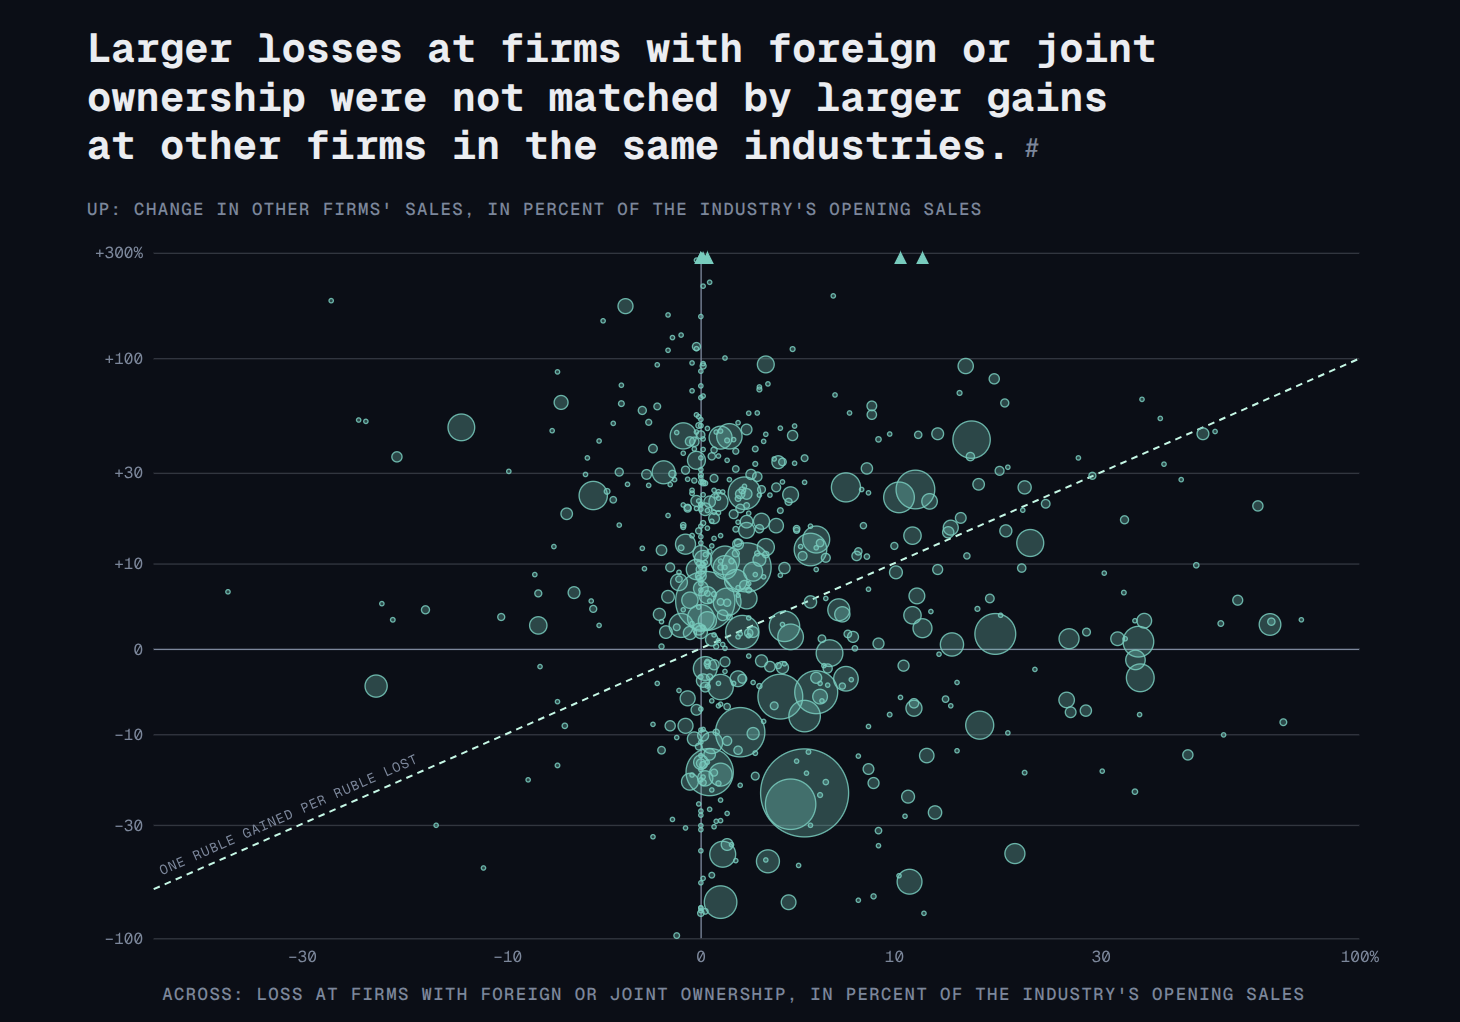
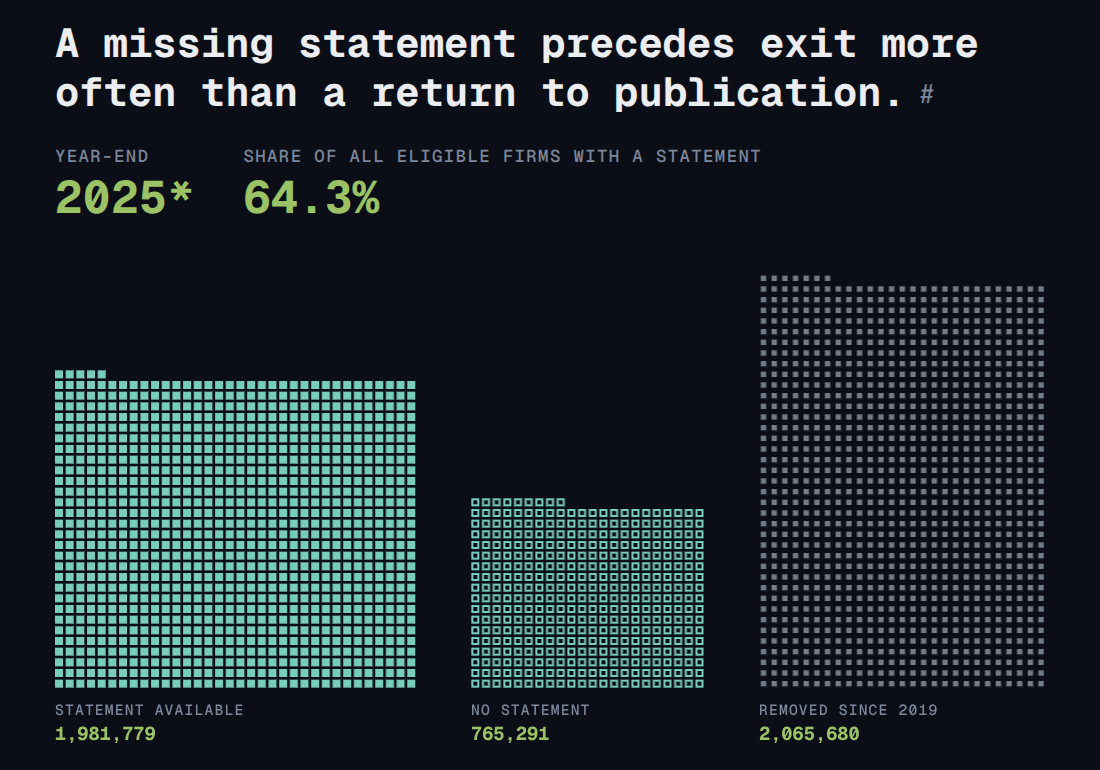
Reduce the desktop bio size and feature the Opacity chart on hover

diff --git a/css/site.css b/css/site.css
@@ -124,7 +124,7 @@ hr { border: 0; height: 2px; margin: 0; background: var(--dim); }
 .content .id { display: grid; grid-template-columns: var(--shot) minmax(0, 1fr); gap: 26px; align-items: start; }
 .content .portrait { display: block; width: 100%; height: auto; aspect-ratio: 1; }
 .content .lede {
-  font-size: clamp(1rem, 1.04vw + var(--shot) * .03, 2.625rem);
+  font-size: clamp(1rem, 0.853vw + var(--shot) * .0246, 2.15rem);
   line-height: 1.27;
   margin-top: -.23em;
 }
